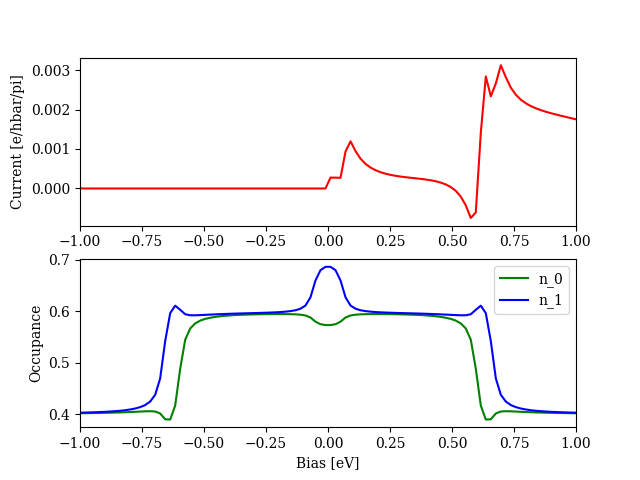
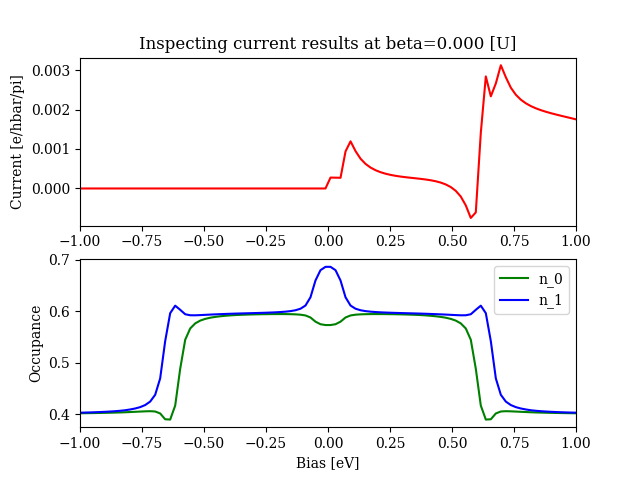
Figures!

Changed region(s): [[0.2188, 0.0625, 0.8125, 0.125]]

diff --git a/coulombIslandCurrent.py b/coulombIslandCurrent.py
@@ -45,7 +45,7 @@ levels = .1*capacitive;
 # Integration interval for the self-consistent calculation.
 intervalW = np.linspace( -10.0, 10.0, 1e4); 
 # Temperature (units U); number, min, max
-betaFraction = 1e-4;
+betaFraction = 1e3;
 
 #Needed for Riemannian sums
 differentialEpsilon = 0.01;
@@ -202,9 +202,7 @@ for bias in biasArray:
 
 	m0 = n[0];
 	m1 = n[1];
-
-	m0 = 0;
-	m1 = 0;
+ 
 	mbGreensFunction = lambda epsilon: (1-m0)*(1-m1) * singleParticleGreensFunctionKet00(epsilon) + m0 * (1-m1) *singleParticleGreensFunctionKet01(epsilon) + m1 * (1-m0) *singleParticleGreensFunctionKet10(epsilon) + m0 * m1 *singleParticleGreensFunctionKet11(epsilon);
 
 	leftMatrix = lambda epsilon: np.dot(gammaLeft, mbGreensFunction(epsilon));

diff --git a/currentPlot.py b/currentPlot.py
@@ -28,8 +28,8 @@ n1 = data[:,4];
  
 #plt.rc('text', usetex=True);
 plt.rc('font', family='serif');
-plt.title('Inspecting current results at beta=%.3f [U]' % beta);
 plt.subplot(2,1,1);
+plt.title('Inspecting current results at beta=%.3f [U]' % beta);
 plt.plot(bias, current, 'r-', label='current'); 
 plt.ylabel('Current [e/hbar/pi]');
 plt.xlim( -1, 1);
